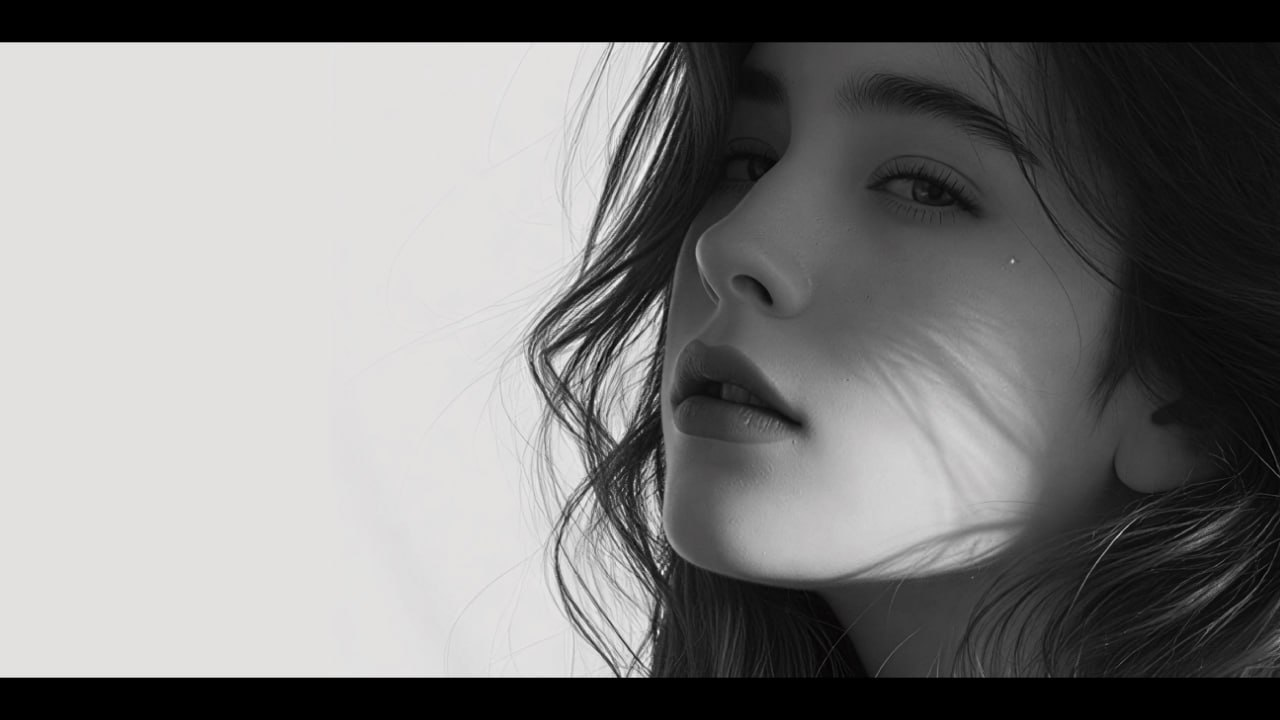
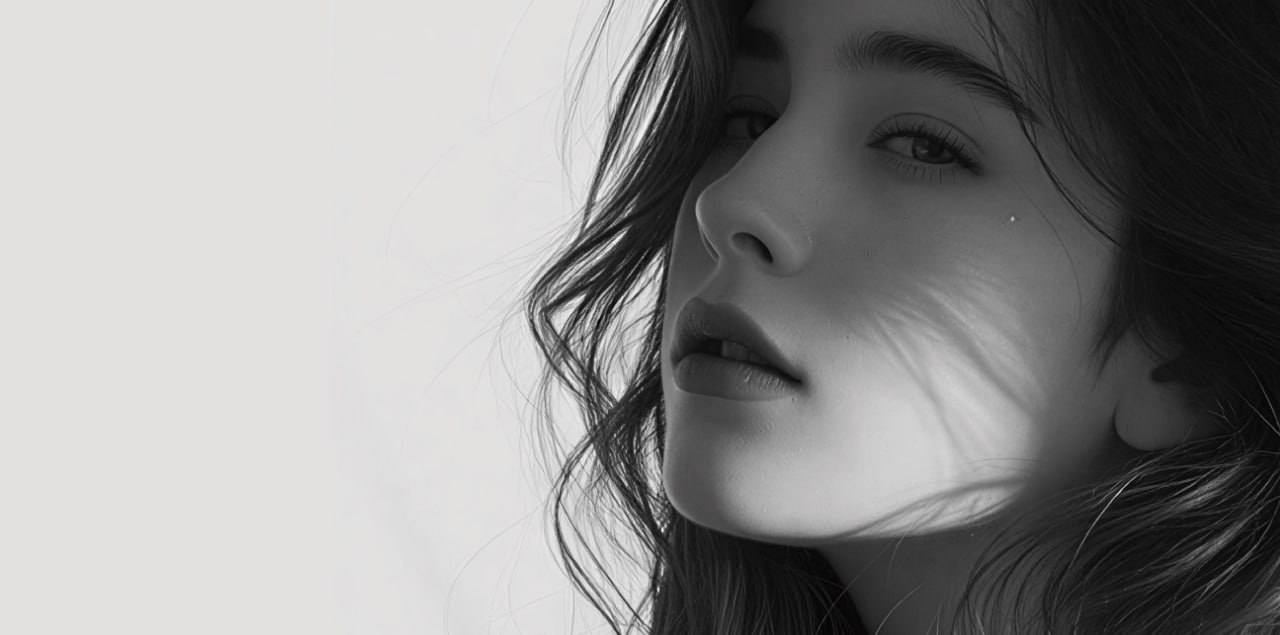
Hero: new bg cover, left-aligned text; contact QR codes; 36 医美案例

diff --git a/index.html b/index.html
@@ -16,11 +16,9 @@ body{
   --purple-light:#A78BFA;
   --purple-dark:#5B21B6;
   --black:#1A1A1A;
-  --gray-900:#2D2D2D;
   --gray-600:#6B6B6B;
   --gray-300:#B8B8B8;
   --gray-100:#E8E8E8;
-  --gray-50:#F5F5F5;
   --white:#FFFFFF;
   --shadow:0 4px 24px rgba(0,0,0,0.04);
   --shadow-hover:0 12px 48px rgba(0,0,0,0.08);
@@ -43,85 +41,42 @@ nav a{
   color:rgba(255,255,255,0.7);text-decoration:none;transition:var(--transition);
   position:relative;padding-bottom:4px;text-shadow:0 2px 8px rgba(0,0,0,0.2)
 }
-nav a::after{
-  content:'';position:absolute;bottom:0;left:0;
-  width:0;height:2px;background:var(--purple-light);transition:var(--transition)
-}
+nav a::after{content:'';position:absolute;bottom:0;left:0;width:0;height:2px;background:var(--purple-light);transition:var(--transition)}
 header.scrolled nav a{color:var(--gray-600);text-shadow:none}
 header.scrolled nav a::after{background:var(--purple)}
 nav a:hover{color:var(--white)}
 header.scrolled nav a:hover{color:var(--black)}
 nav a:hover::after{width:100%}
 
-/* ── Hero ── */
-.hero-wrap{
-  position:relative;min-height:100vh;overflow:hidden
-}
-.hero-bg{
-  position:absolute;inset:0;
-  background:url('bg-hero.jpg') center center / contain no-repeat;
-  background-color:#000
-}
-.hero-bg::after{
-  content:'';position:absolute;inset:0;
-  background:linear-gradient(90deg,rgba(0,0,0,0.35) 0%,rgba(0,0,0,0.1) 40%,transparent 60%)
-}
-.hero{
-  position:relative;z-index:1;
-  min-height:100vh;display:flex;align-items:center;
-  padding:140px 0 100px;text-align:right
-}
-.hero-content{max-width:520px;margin-left:5%}
-.hero-sub{
-  font-size:12px;letter-spacing:4px;text-transform:uppercase;
-  color:var(--purple-light);margin-bottom:20px;font-weight:500
-}
-.hero h1{
-  font-size:clamp(48px,7vw,80px);font-weight:300;line-height:1.05;
-  color:var(--white);margin-bottom:20px;text-shadow:0 4px 24px rgba(0,0,0,0.3);letter-spacing:-0.02em
-}
+.hero-wrap{position:relative;min-height:100vh;overflow:hidden}
+.hero-bg{position:absolute;inset:0;background:url('bg-hero.jpg') center center / cover no-repeat}
+.hero-bg::after{content:'';position:absolute;inset:0;background:linear-gradient(90deg,rgba(0,0,0,0.4) 0%,rgba(0,0,0,0.15) 35%,transparent 60%)}
+.hero{position:relative;z-index:1;min-height:100vh;display:flex;align-items:center;padding:140px 0 100px;text-align:left}
+.hero-content{max-width:520px;padding-left:6%}
+.hero-sub{font-size:12px;letter-spacing:4px;text-transform:uppercase;color:var(--purple-light);margin-bottom:20px;font-weight:500}
+.hero h1{font-size:clamp(48px,7vw,80px);font-weight:300;line-height:1.05;color:var(--white);margin-bottom:20px;text-shadow:0 4px 24px rgba(0,0,0,0.3);letter-spacing:-0.02em}
 .hero h1 strong{font-weight:700;color:var(--white)}
-.hero p{font-size:16px;color:rgba(255,255,255,0.6);max-width:420px;line-height:1.7;margin:0 0 0 auto}
-.hero-stats{display:flex;gap:36px;justify-content:flex-end}
+.hero p{font-size:16px;color:rgba(255,255,255,0.6);max-width:420px;line-height:1.7;margin:0}
+.hero-stats{display:flex;gap:36px;justify-content:flex-start}
 .hero-stats .item{text-align:center}
 .hero-stats .num{font-size:28px;font-weight:700;color:var(--white)}
 .hero-stats .lbl{font-size:11px;color:rgba(255,255,255,0.35);letter-spacing:2px;margin-top:4px}
 
-/* ── Section ── */
 .section{padding:100px 48px;max-width:1400px;margin:0 auto}
 .section-label{font-size:11px;letter-spacing:3px;text-transform:uppercase;color:var(--purple);margin-bottom:8px;font-weight:600}
 .section-title{font-size:32px;font-weight:500;color:var(--black);margin-bottom:8px}
 .section-desc{font-size:15px;color:var(--gray-600);max-width:480px;margin-bottom:40px;line-height:1.8}
 
-/* ── Filter ── */
 .filter-bar{display:flex;gap:8px;margin-bottom:32px;padding-bottom:20px;border-bottom:1px solid var(--gray-100)}
-.filter-btn{
-  padding:10px 28px;border-radius:100px;
-  border:1px solid var(--gray-100);background:var(--white);
-  font-size:13px;color:var(--gray-600);cursor:pointer;
-  transition:var(--transition);font-family:inherit;font-weight:500
-}
+.filter-btn{padding:10px 28px;border-radius:100px;border:1px solid var(--gray-100);background:var(--white);font-size:13px;color:var(--gray-600);cursor:pointer;transition:var(--transition);font-family:inherit;font-weight:500}
 .filter-btn:hover{border-color:var(--purple-light);color:var(--purple)}
 .filter-btn.active{background:var(--purple);border-color:var(--purple);color:var(--white)}
 
-/* ── Grid ── */
-.grid{
-  display:grid;
-  grid-template-columns:repeat(auto-fill,minmax(300px,1fr));
-  gap:20px
-}
-.grid-item{
-  position:relative;border-radius:var(--radius);overflow:hidden;
-  background:var(--white);box-shadow:var(--shadow);
-  transition:var(--transition);cursor:pointer;
-  opacity:0;transform:translateY(24px)
-}
+.grid{display:grid;grid-template-columns:repeat(auto-fill,minmax(300px,1fr));gap:20px}
+.grid-item{position:relative;border-radius:var(--radius);overflow:hidden;background:var(--white);box-shadow:var(--shadow);transition:var(--transition);cursor:pointer;opacity:0;transform:translateY(24px)}
 .grid-item.visible{opacity:1;transform:translateY(0)}
 .grid-item:hover{box-shadow:var(--shadow-hover);transform:translateY(-3px)}
-.grid-item img{
-  width:100%;height:260px;object-fit:cover;
-  display:block;transition:var(--transition)
-}
+.grid-item img{width:100%;height:260px;object-fit:cover;display:block;transition:var(--transition)}
 .grid-item:hover img{transform:scale(1.03)}
 .grid-item .info{padding:18px 20px 20px}
 .grid-item .info .tag{font-size:10px;letter-spacing:1.5px;text-transform:uppercase;color:var(--purple);margin-bottom:4px;font-weight:600}
@@ -129,29 +84,21 @@ nav a:hover::after{width:100%}
 .grid-item .info .date{font-size:12px;color:var(--gray-300)}
 .grid-item.hidden{display:none}
 
-/* ── Lightbox ── */
-.lightbox{
-  position:fixed;top:0;left:0;right:0;bottom:0;
-  z-index:2000;background:rgba(0,0,0,0.88);
-  display:flex;align-items:center;justify-content:center;
-  opacity:0;pointer-events:none;transition:var(--transition);
-  backdrop-filter:blur(24px)
-}
+/* Contact */
+.contact-qr{display:flex;gap:24px;justify-content:center;flex-wrap:wrap;margin-top:32px}
+.qr-item{text-align:center;width:140px}
+.qr-item img{width:120px;height:120px;border-radius:12px;object-fit:cover;border:1px solid var(--gray-100);padding:8px;background:var(--white);transition:var(--transition)}
+.qr-item img:hover{box-shadow:var(--shadow-hover);transform:translateY(-2px)}
+.qr-item .qr-label{font-size:12px;color:var(--gray-600);margin-top:8px}
+
+.lightbox{position:fixed;top:0;left:0;right:0;bottom:0;z-index:2000;background:rgba(0,0,0,0.88);display:flex;align-items:center;justify-content:center;opacity:0;pointer-events:none;transition:var(--transition);backdrop-filter:blur(24px)}
 .lightbox.open{opacity:1;pointer-events:auto}
 .lightbox img{max-width:90vw;max-height:85vh;border-radius:12px;box-shadow:0 24px 64px rgba(0,0,0,0.5);transform:scale(0.92);transition:var(--transition)}
 .lightbox.open img{transform:scale(1)}
-.lightbox .close{
-  position:absolute;top:24px;right:32px;
-  background:none;border:none;color:#fff;
-  font-size:28px;cursor:pointer;opacity:0.5;transition:var(--transition)
-}
+.lightbox .close{position:absolute;top:24px;right:32px;background:none;border:none;color:#fff;font-size:28px;cursor:pointer;opacity:0.5;transition:var(--transition)}
 .lightbox .close:hover{opacity:1}
-.lightbox .caption{
-  position:absolute;bottom:28px;left:50%;transform:translateX(-50%);
-  color:rgba(255,255,255,0.6);font-size:13px;text-align:center
-}
+.lightbox .caption{position:absolute;bottom:28px;left:50%;transform:translateX(-50%);color:rgba(255,255,255,0.6);font-size:13px;text-align:center}
 
-/* ── Footer ── */
 footer{text-align:center;padding:48px;border-top:1px solid var(--gray-100);color:var(--gray-300);font-size:13px}
 footer em{color:var(--purple);font-style:normal}
 
@@ -161,13 +108,14 @@ footer em{color:var(--purple);font-style:normal}
   nav{gap:16px;flex-wrap:wrap;justify-content:center}
   nav a{font-size:11px}
   .hero{padding:120px 20px 80px;min-height:auto}
-  .hero-content{margin-left:0;padding:0 20px;text-align:center}
-  .hero p{margin:0 auto}
-  .hero-stats{justify-content:center}
+  .hero-content{padding-left:0;max-width:100%}
   .hero h1{font-size:36px}
-  .hero-stats{gap:24px;flex-wrap:wrap}
+  .hero-stats{justify-content:center;flex-wrap:wrap}
   .section{padding:60px 20px}
   .grid{grid-template-columns:1fr}
+  .contact-qr{gap:16px}
+  .qr-item{width:100px}
+  .qr-item img{width:90px;height:90px}
 }
 </style>
 </head>
@@ -175,14 +123,9 @@ footer em{color:var(--purple);font-style:normal}
 
 <header id="header">
   <a href="#" class="logo">INTRIPS<span>_</span></a>
-  <nav>
-    <a href="#works">Works</a>
-    <a href="#about">About</a>
-    <a href="#contact">Contact</a>
-  </nav>
+  <nav><a href="#works">Works</a><a href="#about">About</a><a href="#contact">Contact</a></nav>
 </header>
 
-<!-- Hero with blurred bg -->
 <div class="hero-wrap">
   <div class="hero-bg"></div>
   <div class="hero">
@@ -199,40 +142,39 @@ footer em{color:var(--purple);font-style:normal}
   </div>
 </div>
 
-<!-- Works -->
 <section class="section" id="works">
   <div class="section-label">Portfolio</div>
   <h2 class="section-title">精选作品</h2>
   <p class="section-desc">医美包装 · 医药包装 · 品牌海报，三个方向</p>
-
   <div class="filter-bar" id="filterBar">
     <button class="filter-btn active" data-filter="医美案例">医美案例</button>
     <button class="filter-btn" data-filter="医药案例">医药案例</button>
     <button class="filter-btn" data-filter="海报案例">海报案例</button>
   </div>
-
   <div class="grid" id="grid"></div>
 </section>
 
-<!-- About -->
 <section class="section" id="about" style="padding-top:40px">
   <div class="section-label">About</div>
   <h2 class="section-title">INTRIPS_</h2>
   <p class="section-desc" style="max-width:560px">
-    6年包装设计经验，前国内Top 3印刷厂工艺设计师。
-    专注医美与医药领域的包装设计及品牌视觉，
+    6年包装设计经验，前国内Top 3印刷厂工艺设计师。<br>
+    专注医美与医药领域的包装设计及品牌视觉，<br>
     用简约克制的美学语言，为产品赋予独特的质感与辨识度。
   </p>
 </section>
 
 <section class="section" id="contact" style="text-align:center;padding-top:20px;padding-bottom:60px">
   <div class="section-label">Contact</div>
-  <p style="color:var(--gray-600);font-size:14px">intrips_ · WeChat · Behance</p>
+  <p style="color:var(--gray-600);font-size:14px;margin-bottom:8px">欢迎交流合作</p>
+  <div class="contact-qr">
+    <div class="qr-item"><img src="qr-wechat.jpg" alt="微信"><div class="qr-label">微信</div></div>
+    <div class="qr-item"><img src="qr-xiaohongshu.jpg" alt="小红书"><div class="qr-label">小红书</div></div>
+    <div class="qr-item"><img src="qr-douyin.jpg" alt="抖音"><div class="qr-label">抖音</div></div>
+  </div>
 </section>
 
-<footer>
-  <p>&copy; 2026 <em>INTRIPS_</em> · All rights reserved</p>
-</footer>
+<footer><p>&copy; 2026 <em>INTRIPS_</em> · All rights reserved</p></footer>
 
 <div class="lightbox" id="lightbox">
   <button class="close" id="lbClose">✕</button>
@@ -242,52 +184,34 @@ footer em{color:var(--purple);font-style:normal}
 
 <script>
 const works = [
-  ...Array.from({length:24},(_,i)=>i+1).map(i=>({folder:"医美案例",name:`医美案例 (${i}).jpg`})),
+  ...Array.from({length:35},(_,i)=>i+1).map(i=>({folder:"医美案例",name:`医美案例 (${i}).jpg`})),
   {folder:"医美案例",name:"医美案例 (1).png"},
   ...Array.from({length:4},(_,i)=>i+1).map(i=>({folder:"医药案例",name:`医药案例 (${i}).jpg`})),
   ...Array.from({length:35},(_,i)=>i+1).map(i=>({folder:"海报案例",name:`海报案例 (${i}).jpg`})),
 ];
 
-const grid=document.getElementById('grid');
-let currentFilter="医美案例";
-
+const grid=document.getElementById('grid');let currentFilter="医美案例";
 function renderWorks(filter){
   grid.innerHTML='';
-  const filtered=works.filter(w=>w.folder===filter);
-  filtered.forEach(w=>{
-    const el=document.createElement('div');
-    el.className='grid-item visible';
-    const path=`${w.folder}/${encodeURIComponent(w.name)}`;
-    el.innerHTML=`<img src="${path}" alt="${w.name}" loading="lazy">
-      <div class="info"><div class="tag">${w.folder}</div>
-      <h3>${w.name.replace(/\.(jpg|png)$/,'')}</h3>
-      <div class="date">2026</div></div>`;
-    el.addEventListener('click',()=>openLightbox(path,w.name));
-    grid.appendChild(el);
+  works.filter(w=>w.folder===filter).forEach(w=>{
+    const el=document.createElement('div');el.className='grid-item visible';
+    const p=`${w.folder}/${encodeURIComponent(w.name)}`;
+    el.innerHTML=`<img src="${p}" alt="${w.name}" loading="lazy"><div class="info"><div class="tag">${w.folder}</div><h3>${w.name.replace(/\.(jpg|png)$/,'')}</h3><div class="date">2026</div></div>`;
+    el.addEventListener('click',()=>openLightbox(p,w.name));grid.appendChild(el);
   });
 }
-
 document.querySelectorAll('.filter-btn').forEach(btn=>{
   btn.addEventListener('click',()=>{
     document.querySelectorAll('.filter-btn').forEach(b=>b.classList.remove('active'));
-    btn.classList.add('active');
-    currentFilter=btn.dataset.filter;
-    renderWorks(currentFilter);
+    btn.classList.add('active');currentFilter=btn.dataset.filter;renderWorks(currentFilter);
   });
 });
-
-const lb=document.getElementById('lightbox');
-const lbImg=document.getElementById('lbImg');
-const lbCaption=document.getElementById('lbCaption');
-function openLightbox(path,title){lb.classList.add('open');lbImg.src=path;lbCaption.textContent=title;document.body.style.overflow='hidden'}
+const lb=document.getElementById('lightbox'),lbImg=document.getElementById('lbImg'),lbCaption=document.getElementById('lbCaption');
+function openLightbox(p,t){lb.classList.add('open');lbImg.src=p;lbCaption.textContent=t;document.body.style.overflow='hidden'}
 document.getElementById('lbClose').addEventListener('click',()=>{lb.classList.remove('open');document.body.style.overflow=''});
 lb.addEventListener('click',e=>{if(e.target===lb){lb.classList.remove('open');document.body.style.overflow=''}});
 document.addEventListener('keydown',e=>{if(e.key==='Escape'){lb.classList.remove('open');document.body.style.overflow=''}});
-
-window.addEventListener('scroll',()=>{
-  document.getElementById('header').classList.toggle('scrolled',window.scrollY>50);
-});
-
+window.addEventListener('scroll',()=>{document.getElementById('header').classList.toggle('scrolled',window.scrollY>50)});
 document.getElementById('totalWorks').textContent=works.length;
 renderWorks("医美案例");
 </script>
